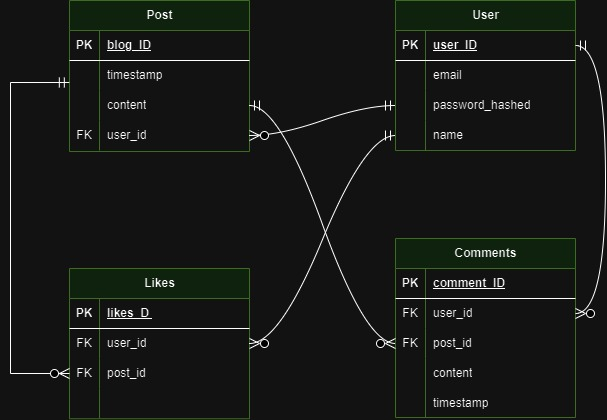
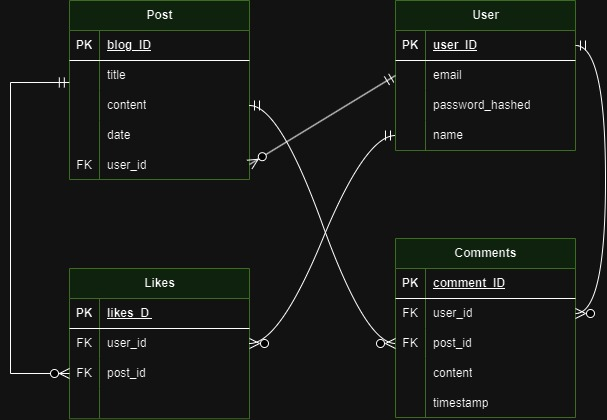
Created the Post model

diff --git a/models/user.py b/models/user.py
@@ -1,4 +1,5 @@
 from init import db, ma
+from marshmallow import fields
 
 # Creating a table in the database
 class User(db.Model):
@@ -11,9 +12,14 @@ class User(db.Model):
     password = db.Column(db.String, nullable=False)
     is_admin = db.Column(db.Boolean, default=False)
 
+    # Foreign Key relationship for the Post Table
+    posts = db.relationship('Post', back_populates="user")
+
 class UserSchema(ma.Schema):
+    posts = fields.List(fields.Nested('PostSchema'), exclude=["user"]) # Retreive all information from the post except for the user attribute as we will already have it
+
     class Meta:
-        fields = ("user_id", "name", "email", "password", "is_admin")
+        fields = ("user_id", "name", "email", "password", "is_admin", "posts")
 
 # To handle a single user object
 user_schema = UserSchema(exclude=["password"])

diff --git a/models/post.py b/models/post.py
@@ -1,0 +1,26 @@
+from init import db, ma
+from marshmallow import fields
+
+class Post(db.Model):
+    __tablename__ = "posts"
+
+    post_id = db.Column(db.Integer, primary_key=True)
+    title = db.Column(db.String, nullable=False)
+    content = db.Column(db.String, nullable=False)
+    date = db.Column(db.Date) # Created Date
+
+    # Foreign Key
+    user_id = db.Column(db.Integer, db.ForeignKey("users.user_id"), nullable=False)
+
+    # Get the Foreign Key User's information
+    user = db.relationship('User', back_populates="posts")
+
+class PostSchema(ma.Schema):
+
+    user = fields.Nested('UserSchema', only=["name"]) # Recieving only the name attribute from the user
+
+    class Meta:
+        fields = ("post_id", "title", "content", "date", "user")
+
+post_schema = PostSchema()
+posts_schema = PostSchema(many=True)
